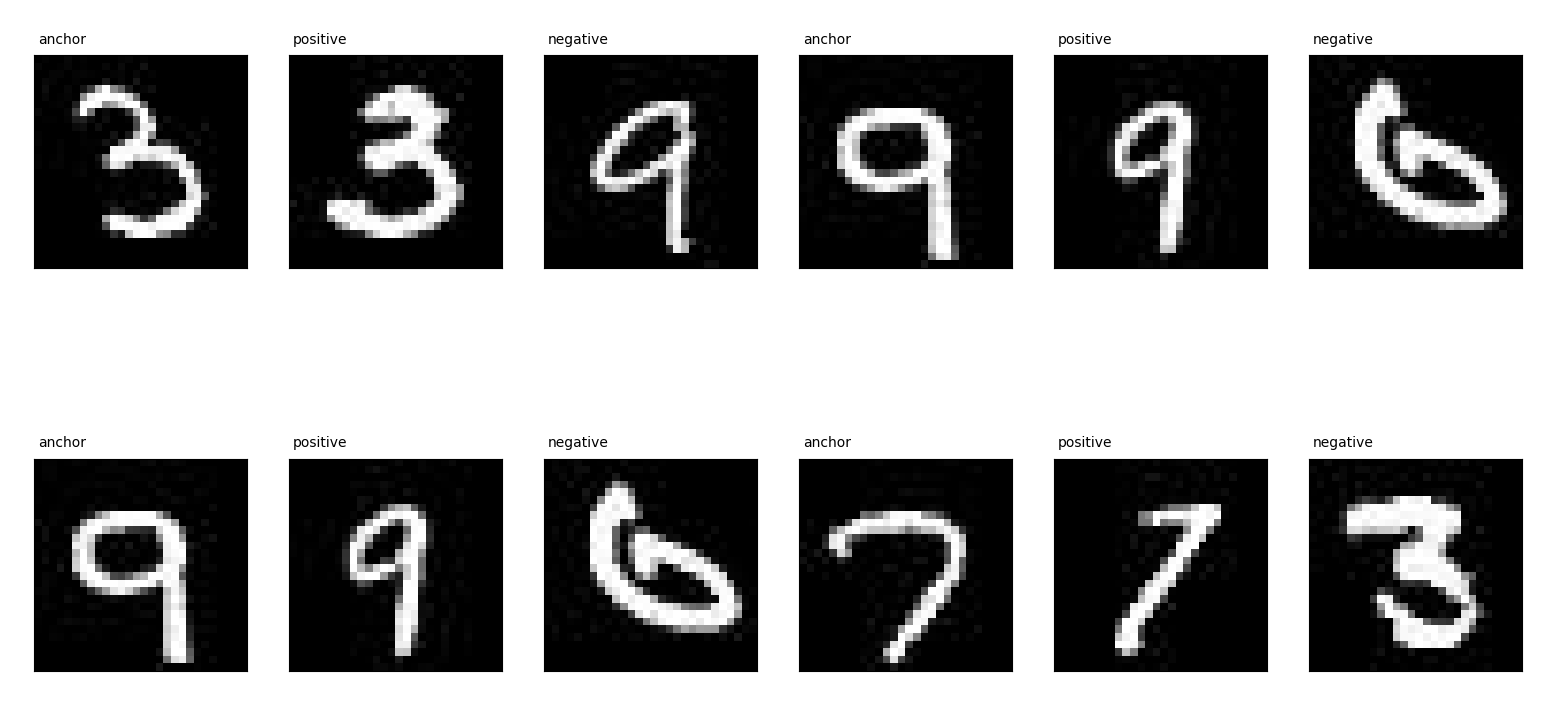
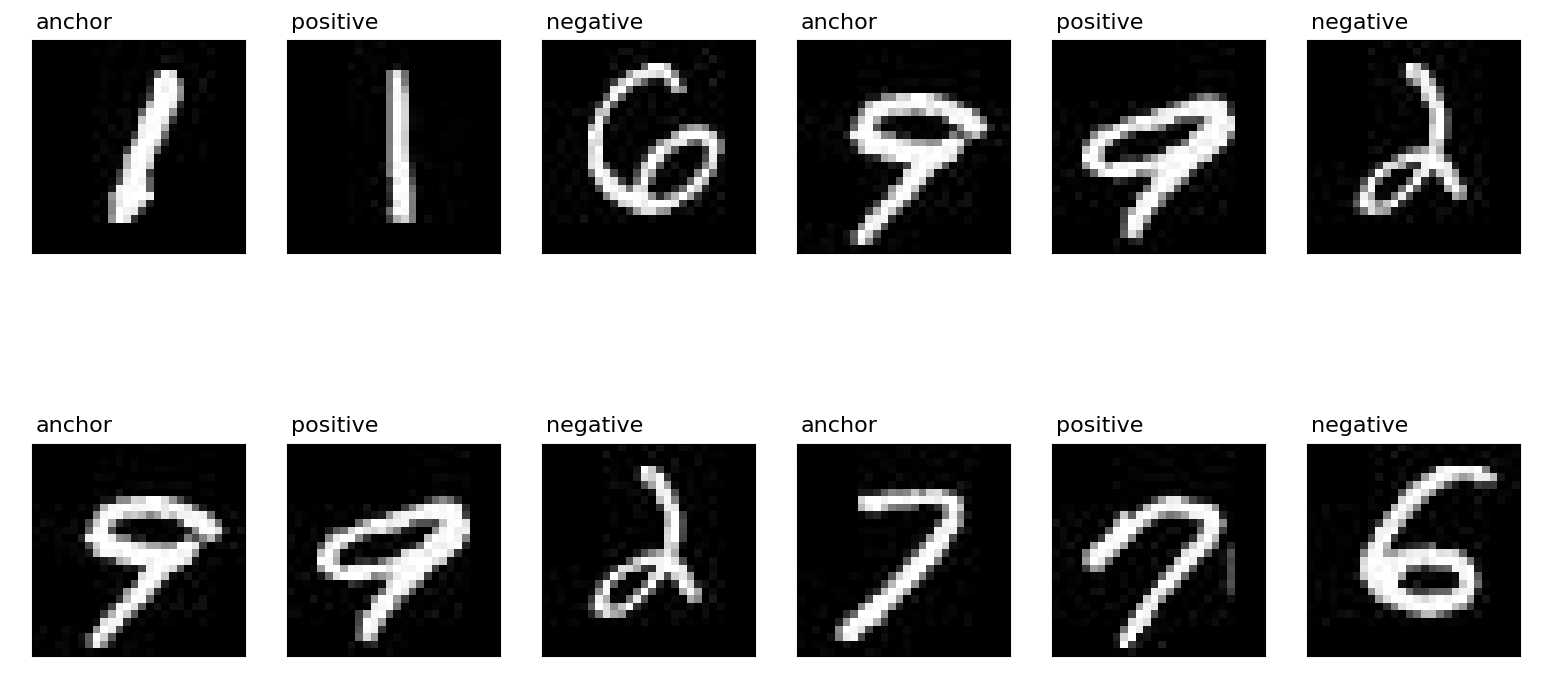
add code

diff --git a/paper-implementations/pytorch/siamese-triplet-loss/pytorch_siamese_triplet.py b/paper-implementations/pytorch/siamese-triplet-loss/pytorch_siamese_triplet.py
@@ -1,0 +1,304 @@
+"""Siamese Network implementation with triplet loss.
+
+Two or more identical networks that produces similar shape outputs/embeddings.
+These embeddings are used to idenify if two things are same or similar.
+
+Notes
+    - Add LazyLinear alternative by getting feature dimension from dummy data pass.
+
+References
+    - https://github.com/fangpin/siamese-pytorch
+    - https://pytorch.org/tutorials/beginner/data_loading_tutorial.html
+    - https://discuss.pytorch.org/t/dataloader-for-a-siamese-model-with-concatdataset/66085
+    - https://keras.io/examples/vision/siamese_network/
+    - https://keras.io/examples/vision/siamese_contrastive/
+    - https://learnopencv.com/image-classification-using-transfer-learning-in-pytorch/
+    - https://pytorch.org/vision/master/feature_extraction.html
+    - https://github.com/quickgrid/code-lab/blob/master/code-lab/pytorch/pytorch_siamese_network.py
+"""
+import os
+from typing import Dict, Union, Tuple
+
+import numpy as np
+import torch
+import torch.nn as nn
+from PIL import Image
+from torch import Tensor
+from torch.utils.data import Dataset, DataLoader
+from torchvision import transforms, models
+from torchvision.models.feature_extraction import create_feature_extractor
+
+
+class Resnet18FeatureExtractor(nn.Module):
+    def __init__(
+            self,
+            device
+    ):
+        super(Resnet18FeatureExtractor, self).__init__()
+        model = models.resnet18(pretrained=True).to(device=device)
+        model.train(mode=False)
+
+        # train_nodes, eval_nodes = get_graph_node_names(model)
+        # print('train_nodes')
+        # print(train_nodes)
+        # print('eval_nodes')
+        # print(eval_nodes)
+
+        return_nodes = {
+            'layer3.1.relu_1': 'layer3',
+        }
+        self.feature_extractor = create_feature_extractor(
+            model,
+            return_nodes=return_nodes
+        ).to(device=device)
+
+    def forward(self, x):
+        x = self.feature_extractor(x)
+        return x
+
+
+class SiameseModelTriplet(nn.Module):
+    def __init__(
+            self,
+            device: torch.device,
+            embedding_dim: int = 128,
+    ) -> None:
+        super(SiameseModelTriplet, self).__init__()
+        self.base_network = Resnet18FeatureExtractor(device=device)
+        self.flatten = nn.Flatten()
+        self.output = nn.Sequential(
+            nn.LazyLinear(out_features=512),
+            nn.LeakyReLU(0.2),
+            nn.Linear(in_features=512, out_features=embedding_dim),
+        )
+
+    def forward_single_minibatch(self, x: Tensor) -> Tensor:
+        x = self.base_network(x)
+        x = self.flatten(x['layer3'])
+        x = self.output(x)
+        return x
+
+    def forward(self, achor: Tensor, positive: Tensor, negative: Tensor) -> Tuple[Tensor, Tensor, Tensor]:
+        achor_embedding = self.forward_single_minibatch(achor)
+        positive_embedding = self.forward_single_minibatch(positive)
+        negative_embedding = self.forward_single_minibatch(negative)
+        return (
+            achor_embedding,
+            positive_embedding,
+            negative_embedding
+        )
+
+
+class SiameseDatasetTriplet(Dataset):
+    def __init__(
+            self,
+            root_dir: str,
+            transform: transforms = None
+    ) -> None:
+        self.root_dir = root_dir
+        self.transform = transform
+
+        class_names_folder = os.listdir(root_dir)
+        self.class_names_len = len(class_names_folder)
+
+        folder_name_file_count_dict = dict()
+        index_to_class_folder_map = dict()
+        name_label_dict = dict()
+        total_files = 0
+        for idx, class_folder in enumerate(class_names_folder):
+            image_files = os.listdir(os.path.join(root_dir, class_folder))
+            file_count = len(image_files)
+            total_files += file_count
+            folder_name_file_count_dict[class_folder] = file_count
+            index_to_class_folder_map[idx] = class_folder
+            name_label_dict[class_folder] = image_files
+
+        # print(name_label_dict)
+        # print(total_files)
+
+        # Here, I have made pairings based on total file count. This pairing can be changed to N.
+        self.triplet_file_paths = list()
+        for i in range(total_files):
+            # Anchor and positive images come from same folder but both are not same files.
+            anchor_folder_idx = np.random.randint(low=0, high=self.class_names_len)
+            selected_anchor_folder = index_to_class_folder_map[anchor_folder_idx]
+            anchor_image_index = np.random.randint(
+                low=0,
+                high=folder_name_file_count_dict[selected_anchor_folder]
+            )
+            positive_image_index = np.random.randint(
+                low=0,
+                high=folder_name_file_count_dict[selected_anchor_folder]
+            )
+            while anchor_image_index == positive_image_index:
+                positive_image_index = np.random.randint(
+                    low=0,
+                    high=folder_name_file_count_dict[selected_anchor_folder]
+                )
+
+            # Negative image selection such that it does not belong to anchor, positive class.
+            negative_folder_idx = np.random.randint(low=0, high=self.class_names_len)
+            while negative_folder_idx == anchor_folder_idx:
+                negative_folder_idx = np.random.randint(low=0, high=self.class_names_len)
+            selected_negative_folder = index_to_class_folder_map[negative_folder_idx]
+            negative_image_index = np.random.randint(
+                low=0,
+                high=folder_name_file_count_dict[selected_negative_folder]
+            )
+
+            # print(
+            #     name_label_dict.get(selected_anchor_folder)[anchor_image_index],
+            #     name_label_dict.get(selected_anchor_folder)[positive_image_index],
+            #     name_label_dict.get(selected_negative_folder)[negative_image_index]
+            # )
+
+            # Insert (anchor, positive, negative) triplet into dictionary.
+            self.triplet_file_paths.append(
+                (
+                    os.path.join(self.root_dir, selected_anchor_folder,
+                                 name_label_dict.get(selected_anchor_folder)[anchor_image_index]),
+                    os.path.join(self.root_dir, selected_anchor_folder,
+                                 name_label_dict.get(selected_anchor_folder)[positive_image_index]),
+                    os.path.join(self.root_dir, selected_negative_folder,
+                                 name_label_dict.get(selected_negative_folder)[negative_image_index]),
+                )
+            )
+
+        self.triplet_file_names_len = len(self.triplet_file_paths)
+
+    def __len__(self) -> int:
+        return self.triplet_file_names_len
+
+    def __getitem__(
+            self,
+            idx: int
+    ) -> Dict[str, Union[Image.Image, int, bool]]:
+        anchor_image_path, positive_image_path, negative_image_path = self.triplet_file_paths[idx]
+
+        anchor_image = Image.open(anchor_image_path)
+        postive_image = Image.open(positive_image_path)
+        negative_image = Image.open(negative_image_path)
+        anchor_image = anchor_image.convert('RGB')
+        postive_image = postive_image.convert('RGB')
+        negative_image = negative_image.convert('RGB')
+
+        if self.transform:
+            anchor_image = self.transform(anchor_image)
+            postive_image = self.transform(postive_image)
+            negative_image = self.transform(negative_image)
+
+        sample = {
+            'anchor_image': anchor_image,
+            'postive_image': postive_image,
+            'negative_image': negative_image,
+        }
+        return sample
+
+
+def calculate_distances(
+        anchor_embedding: Tensor,
+        positive_embedding: Tensor,
+        negative_embedding: Tensor
+) -> Tuple[Tensor, Tensor]:
+    ap_distance = torch.sum(torch.square(anchor_embedding - positive_embedding), dim=-1)
+    an_distance = torch.sum(torch.square(anchor_embedding - negative_embedding), dim=-1)
+    return ap_distance, an_distance
+
+
+def triplet_loss_fn(margin: float):
+    def triplet_loss(ap_distance: Tensor, an_distance: Tensor) -> Tensor:
+        return torch.mean(
+            torch.maximum(ap_distance - an_distance + margin, torch.zeros_like(ap_distance))
+        )
+
+    return triplet_loss
+
+
+class Trainer:
+    def __init__(
+            self,
+            dataset_path: str,
+            batch_size: int = 32,
+            num_workers: int = 8,
+            learning_rate: float = 0.0001,
+            num_epochs: int = 1000,
+            embedding_dim: int = 128,
+    ):
+        super(Trainer, self).__init__()
+        self.num_epochs = num_epochs
+
+        data_transforms = transforms.Compose([
+            transforms.ToTensor()
+        ])
+        train_dataset = SiameseDatasetTriplet(
+            root_dir=dataset_path,
+            transform=data_transforms
+        )
+        self.train_loader = DataLoader(
+            dataset=train_dataset,
+            batch_size=batch_size,
+            num_workers=num_workers,
+        )
+
+        self.num_classes = len(os.listdir(dataset_path))
+        self.device = torch.device('cuda' if torch.cuda.is_available() else 'cpu')
+        self.model = SiameseModelTriplet(embedding_dim=embedding_dim, device=self.device).to(self.device)
+        self.loss_fn = triplet_loss_fn(margin=0.5)
+        self.optimizer_fn = torch.optim.Adam(self.model.parameters(), lr=learning_rate)
+
+    def train(self) -> None:
+        for epoch in range(self.num_epochs):
+            train_loss = 0.0
+            for batch_idx, data in enumerate(self.train_loader):
+                anchor_image_batch = data['anchor_image']
+                postive_image_batch = data['postive_image']
+                negative_image_batch = data['negative_image']
+
+                anchor_image_batch = anchor_image_batch.to(self.device)
+                postive_image_batch = postive_image_batch.to(self.device)
+                negative_image_batch = negative_image_batch.to(self.device)
+
+                anchor_embedding, positive_embedding, negative_embedding = self.model.forward(
+                    anchor_image_batch,
+                    postive_image_batch,
+                    negative_image_batch,
+                )
+                ap_distance, an_distance = calculate_distances(
+                    anchor_embedding,
+                    positive_embedding,
+                    negative_embedding
+                )
+
+                loss = self.loss_fn(ap_distance, an_distance)
+                self.optimizer_fn.zero_grad()
+                loss.backward()
+                self.optimizer_fn.step()
+
+                train_loss += loss.item() * anchor_image_batch.size(0)
+
+                # fig, ax = plt.subplots(1, 3)
+                # ax[0].imshow(np.transpose(anchor_image_batch[0].detach().cpu().numpy(), (1, 2, 0)))
+                # ax[1].imshow(np.transpose(postive_image_batch[0].detach().cpu().numpy(), (1, 2, 0)))
+                # ax[2].imshow(np.transpose(negative_image_batch[0].detach().cpu().numpy(), (1, 2, 0)))
+                # plt.show()
+
+            train_loss /= len(self.train_loader)
+            print('Epoch: {} \tTraining Loss: {:.6f}'.format(
+                epoch,
+                train_loss
+            ))
+
+            if epoch % 10 == 0:
+                torch.save({
+                    'epoch': epoch,
+                    'model_state_dict': self.model.state_dict(),
+                    'optimizer_state_dict': self.optimizer_fn.state_dict(),
+                }, f'checkpoints/checkpoint_{epoch}.pt')
+
+
+if __name__ == '__main__':
+    # Fire(Trainer)
+    trainer = Trainer(
+        dataset_path='../dataset/mnist_sample'
+    )
+    trainer.train()

diff --git a/paper-implementations/pytorch/siamese-triplet-loss/pytorch_siamese_triplet_inference.py b/paper-implementations/pytorch/siamese-triplet-loss/pytorch_siamese_triplet_inference.py
@@ -1,0 +1,89 @@
+import torch
+from torchvision.transforms import transforms
+from torch.utils.data import DataLoader
+import torch.nn as nn
+import matplotlib.pyplot as plt
+import numpy as np
+
+
+from pytorch_siamese_triplet import SiameseModelTriplet, SiameseDatasetTriplet
+from pytorch_siamese_triplet import calculate_distances
+
+
+def infer():
+    embedding_dim = 128
+    device = torch.device('cuda' if torch.cuda.is_available() else 'cpu')
+    print(device)
+    model = SiameseModelTriplet(
+        embedding_dim=embedding_dim,
+        device=device,
+    )
+    model.load_state_dict(
+        torch.load('checkpoints/checkpoint_8.pt')['model_state_dict']
+    )
+    model.eval()
+    model.to(device)
+
+    data_transforms = transforms.Compose([
+        transforms.ToTensor(),
+    ])
+
+    train_dataset = SiameseDatasetTriplet(
+        root_dir='../dataset/mnist_sample',
+        transform=data_transforms
+    )
+    batch_size: int = 4
+    num_workers: int = 8
+    train_loader = DataLoader(
+        dataset=train_dataset,
+        batch_size=batch_size,
+        num_workers=num_workers,
+    )
+
+    # Matplotlib config.
+    nrows = 2
+    ncols = 2
+
+    for batch_idx, data in enumerate(train_loader):
+        anchor_image_batch = data['anchor_image']
+        postive_image_batch = data['postive_image']
+        negative_image_batch = data['negative_image']
+
+        anchor_image_batch = anchor_image_batch.to(device)
+        postive_image_batch = postive_image_batch.to(device)
+        negative_image_batch = negative_image_batch.to(device)
+
+        embedding_1 = model.forward_single_minibatch(anchor_image_batch)
+        embedding_2 = model.forward_single_minibatch(postive_image_batch)
+        embedding_3 = model.forward_single_minibatch(negative_image_batch)
+
+        with torch.no_grad():
+            ap_distance, an_distance = calculate_distances(
+                anchor_embedding=embedding_1,
+                positive_embedding=embedding_2,
+                negative_embedding=embedding_3,
+            )
+            print(ap_distance, an_distance)
+
+            cosine_similarity = nn.CosineSimilarity()
+            print(f'Similarity Score between AP: {cosine_similarity(embedding_1, embedding_2)}')
+            print(f'Similarity Score between AP: {cosine_similarity(embedding_1, embedding_3)}')
+
+            fig, ax = plt.subplots(nrows, ncols * 3)
+            plt.setp(plt.gcf().get_axes(), xticks=[], yticks=[])
+            for i in range(nrows):
+                m = 0
+                for j in range(ncols):
+                    print(i, j)
+                    ax[i, m].imshow(np.transpose(anchor_image_batch[i + j].detach().cpu().numpy(), (1, 2, 0)))
+                    ax[i, m].text(0.0, -2.0, 'anchor', fontsize=16)
+                    ax[i, m + 1].imshow(np.transpose(postive_image_batch[i + j].detach().cpu().numpy(), (1, 2, 0)))
+                    ax[i, m + 1].text(0.0, -2.0, 'positive', fontsize=16)
+                    ax[i, m + 2].imshow(np.transpose(negative_image_batch[i + j].detach().cpu().numpy(), (1, 2, 0)))
+                    ax[i, m + 2].text(0.0, -2.0, 'negative', fontsize=16)
+                    m += 3
+            plt.show()
+
+
+if __name__ == '__main__':
+    infer()
